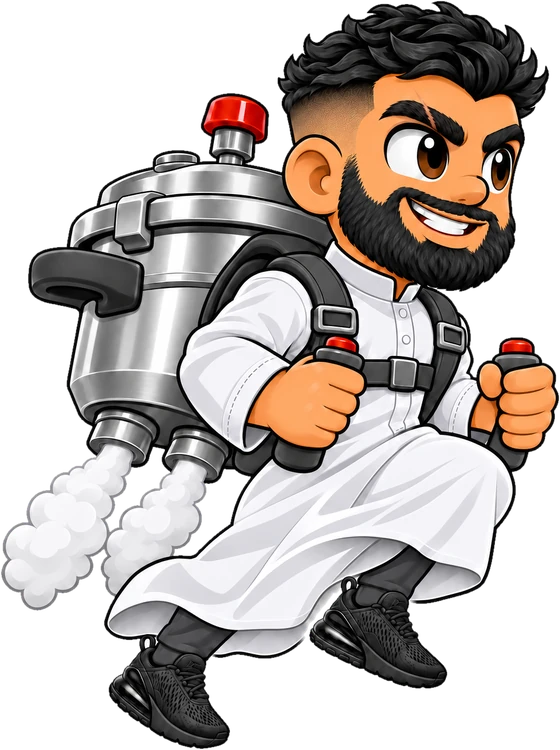
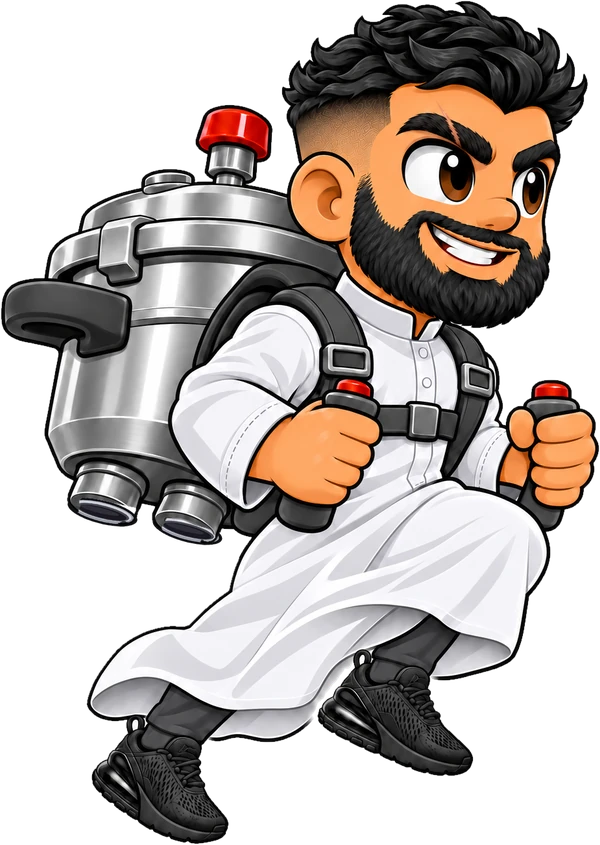
Jummah Dash demo: home art without painted steam + live smoky steam from the nozzles (behind the thobe), darker home background, menu clear of the Dynamic Island
Claude-Session: https://claude.ai/code/session_01YJ1z4udzgwtjsqdwzKAzGp

diff --git a/jummahdash/demo/game.html b/jummahdash/demo/game.html
@@ -17,16 +17,16 @@ html,body{margin:0;height:100%;background:#0c0820;overflow:hidden;overscroll-beh
 #stage{position:fixed;left:0;top:0;overflow:hidden;transform-origin:0 0}
 canvas{position:absolute;inset:0;width:100%;height:100%;display:block}
 #ui{position:absolute;inset:0;pointer-events:none;font-family:PS,monospace;color:#fff}
-.hud{position:absolute;top:12px;left:16px;font-size:20px;text-shadow:3px 3px 0 #160c28;display:none}
+.hud{position:absolute;top:12px;left:calc(var(--sl,0px) + 16px);font-size:20px;text-shadow:3px 3px 0 #160c28;display:none}
 .hud .c{font-size:15px;margin-top:9px;color:#ffd75a;display:flex;align-items:center;gap:7px}
 .coin{display:inline-flex;align-items:center;justify-content:center;width:18px;height:18px;border-radius:50%;background:radial-gradient(circle at 40% 35%,#fff3b0,#e9b52b 55%,#a8761a);box-shadow:0 0 0 2px #6b4a12;color:#6b4a12;font:700 11px Silk}
-.top-r{position:absolute;top:10px;right:12px;display:flex;gap:8px;pointer-events:auto}
+.top-r{position:absolute;top:10px;right:calc(var(--sr,0px) + 12px);display:flex;gap:8px;pointer-events:auto}
 .btn{font-family:PS,monospace;border:0;border-radius:10px;padding:8px 10px;font-size:12px;background:rgba(18,12,38,.72);color:#fff;box-shadow:0 0 0 2px rgba(255,255,255,.25) inset;cursor:pointer}
 .hide{display:none!important}
 
 /* ---------- home screen ---------- */
-#home{position:absolute;inset:0;pointer-events:auto;display:grid;grid-template-columns:minmax(150px,26%) 1fr;background:linear-gradient(90deg,rgba(10,6,28,.88) 0,rgba(10,6,28,.55) 30%,rgba(10,6,28,.1) 60%,rgba(10,6,28,.35))}
-.side{display:flex;flex-direction:column;gap:7px;padding:12px 10px 12px 22px;background:repeating-linear-gradient(135deg,#ffd21f 0 12px,#1a1024 12px 24px) left/8px 100% no-repeat}
+#home{position:absolute;inset:0;pointer-events:auto;display:grid;grid-template-columns:calc(var(--sl,0px) + minmax(150px,24vw)) 1fr;grid-template-columns:calc(var(--sl,0px) + 26%) 1fr;background:linear-gradient(90deg,rgba(8,5,24,.9) 0,rgba(8,5,24,.72) 32%,rgba(8,5,24,.5) 62%,rgba(8,5,24,.62))}
+.side{display:flex;flex-direction:column;gap:7px;padding:12px 10px 12px calc(var(--sl,0px) + 22px);background:repeating-linear-gradient(135deg,#ffd21f 0 12px,#1a1024 12px 24px) left/8px 100% no-repeat}
 .side .tile{font-family:PS,monospace;font-size:clamp(8px,1.25vw,12px);text-align:left;border:0;border-radius:9px;padding:9px 10px;background:linear-gradient(#3a3168,#241c48);color:#fff;box-shadow:0 3px 0 #120c26,0 0 0 2px #5a4fa0 inset;display:flex;align-items:center;justify-content:space-between;gap:8px;cursor:pointer;line-height:1.5}
 .side .tile small{font-family:Silk;font-size:10px;color:#bdb4ff}
 .side .tile.gold{background:linear-gradient(#ffcf3a,#e09a12);color:#2a1500;box-shadow:0 3px 0 #8a5300,0 0 0 2px #fff0a8 inset}
@@ -40,12 +40,11 @@ canvas{position:absolute;inset:0;width:100%;height:100%;display:block}
 .badge{font-family:Silk;font-weight:700;font-size:12px;letter-spacing:2px;color:#ffd75a;background:#151226;border:2px solid #ffd75a;border-radius:20px;padding:4px 12px}
 .tag{margin-left:2%;font-size:14px;color:#fff;text-shadow:3px 3px 0 #160c28}
 .tag b{color:#ffd75a}
-.heroWrap{position:absolute;right:2%;bottom:3%;height:84%;aspect-ratio:560/750;animation:bob 2.2s ease-in-out infinite}
-.hero{width:100%;height:100%;filter:drop-shadow(10px 14px 10px rgba(0,0,0,.45))}
+.heroWrap{position:absolute;right:3%;bottom:4%;height:84%;aspect-ratio:925/1302;animation:bob 2.2s ease-in-out infinite}
+.hero{position:relative;z-index:1;width:100%;height:100%;filter:drop-shadow(10px 14px 10px rgba(0,0,0,.45))}
+#steamCv{position:absolute;z-index:0;left:-80%;top:0;width:180%;height:140%;pointer-events:none}
 @keyframes bob{50%{transform:translateY(-4%) rotate(-1.5deg)}}
-.puff{position:absolute;border-radius:50%;background:#fff;pointer-events:none;animation:puff 1.1s linear forwards}
-@keyframes puff{from{opacity:.9}to{transform:translate(-50px,80px) scale(2.8);opacity:0}}
-.stats{position:absolute;top:10px;right:64px;display:flex;gap:8px;font-size:clamp(9px,1.3vw,13px)}
+.stats{position:absolute;top:10px;right:calc(var(--sr,0px) + 64px);display:flex;gap:8px;font-size:clamp(9px,1.3vw,13px)}
 .stats div{background:rgba(18,12,38,.8);border-radius:9px;padding:7px 10px;box-shadow:0 0 0 2px rgba(255,255,255,.2) inset;display:flex;align-items:center;gap:7px}
 .stats .gold{color:#ffd75a}
 .play{position:absolute;left:5.5%;bottom:9%;font-size:clamp(11px,1.9vw,19px);color:#ffd75a;text-shadow:3px 3px 0 #160c28;animation:pulse 1s infinite}
@@ -94,7 +93,7 @@ canvas{position:absolute;inset:0;width:100%;height:100%;display:block}
       <div class="title"><div class="badge">AN SMR ORIGINAL</div>
       <img class="logo" src="art/logo.webp" alt="Jummah Dash">
       <div class="tag">LATE FOR <b>JUMMAH</b>. AGAIN.</div></div>
-      <div class="heroWrap" id="heroWrap"><img class="hero" src="art/hero_hd.webp" alt=""></div>
+      <div class="heroWrap" id="heroWrap"><canvas id="steamCv"></canvas><img class="hero" src="art/hero_hd.webp?v=1795283304" alt=""></div>
       <div class="stats"><div>BEST <span id="hBest">0m</span></div><div class="gold"><span class="coin">£</span><span id="hBank">£0</span></div></div>
       <div class="mine">Heading to <b id="mineName">your masjid</b></div>
       <div class="play">TOUCH ANYWHERE TO PLAY</div>
@@ -130,8 +129,8 @@ canvas{position:absolute;inset:0;width:100%;height:100%;display:block}
   <div id="toast" class="hide"></div>
 </div>
 </div>
-<script src="landmarks.js?v=1795280476"></script>
-<script src="vehicles.js?v=1795280476"></script>
-<script src="game.js?v=1795280476"></script>
+<script src="landmarks.js?v=1795283304"></script>
+<script src="vehicles.js?v=1795283304"></script>
+<script src="game.js?v=1795283304"></script>
 </body>
 </html>

diff --git a/jummahdash/demo/game.js b/jummahdash/demo/game.js
@@ -24,6 +24,9 @@ function resize() {
   // always landscape: if the phone is upright, turn the whole stage 90° (the player just turns the phone)
   const st = $('stage'), port = innerHeight > innerWidth, sw = port ? innerHeight : innerWidth, sh2 = port ? innerWidth : innerHeight;
   st.style.width = sw + 'px'; st.style.height = sh2 + 'px'; st.style.transform = port ? `translateX(${innerWidth}px) rotate(90deg)` : 'none';
+  // keep the menu and HUD clear of the notch / Dynamic Island: on an upright phone the island ends up on the left of the turned stage
+  st.style.setProperty('--sl', port ? 'max(44px, env(safe-area-inset-top))' : 'max(0px, env(safe-area-inset-left))');
+  st.style.setProperty('--sr', port ? 'max(0px, env(safe-area-inset-bottom))' : 'max(0px, env(safe-area-inset-right))');
   cv.width = Math.round(sw * dpr); cv.height = Math.round(sh2 * dpr);
   S = cv.height / VH; W = cv.width / S;
   const k = Math.min(4, Math.max(1, Math.round(S * 10) / 10));
@@ -492,10 +495,39 @@ window.addEventListener('keydown', e => { if (e.code === 'Space' || e.code === '
 window.addEventListener('keyup', e => { if (e.code === 'Space' || e.code === 'ArrowUp') holding = false; });
 document.addEventListener('gesturestart', e => e.preventDefault());
 window.addEventListener('resize', resize); window.addEventListener('orientationchange', () => setTimeout(resize, 200));
-// steam puffs out of the cooker on the home-screen art
-setInterval(() => { if (state !== 'menu' || document.hidden) return; const w = $('heroWrap'); const r = w.getBoundingClientRect(); if (!r.width) return;
-  for (const [fx, fy] of [[.13, .8], [.27, .8]]) { const p = document.createElement('div'); p.className = 'puff'; const sz = 10 + Math.random() * 14;
-    p.style.cssText = `width:${sz}px;height:${sz}px;left:${w.offsetLeft + w.offsetWidth * fx - sz / 2}px;top:${w.offsetTop + w.offsetHeight * fy}px`; w.parentNode.appendChild(p); setTimeout(() => p.remove(), 1150); } }, 140);
+// home screen: smoky steam pouring out of the two cooker nozzles (drawn BEHIND the art, so it comes out of the holes and passes behind the thobe)
+(() => {
+  const sc = $('steamCv'), wrap = $('heroWrap'), o = sc.getContext('2d');
+  const NZ = [[.171, .606], [.312, .627]], AX = [-.24, .97];          // nozzle mouths (fraction of the art) + the way they point
+  const mk = (inner, outer) => { const c = document.createElement('canvas'); c.width = c.height = 64; const g = c.getContext('2d');
+    const r = g.createRadialGradient(32, 32, 0, 32, 32, 32); r.addColorStop(0, inner); r.addColorStop(.62, inner.replace(/[\d.]+\)$/, '0.9)')); r.addColorStop(.82, inner.replace(/[\d.]+\)$/, '0.35)')); r.addColorStop(1, outer); g.fillStyle = r; g.fillRect(0, 0, 64, 64); return c; };
+  const SHADE = mk('rgba(150,152,170,1)', 'rgba(150,152,170,0)'), LIGHT = mk('rgba(255,255,255,1)', 'rgba(255,255,255,0)'), CORE = mk('rgba(244,244,250,1)', 'rgba(240,240,248,0)');
+  let P = [], lastT = performance.now(), acc = 0;
+  function step(now) {
+    requestAnimationFrame(step);
+    if (state !== 'menu' || document.hidden) { P.length = 0; return; }
+    const dt = Math.min(.05, (now - lastT) / 1000); lastT = now;
+    const ww = wrap.clientWidth, wh = wrap.clientHeight; if (!ww) return;
+    const pr = Math.min(2, window.devicePixelRatio || 1), cw = Math.round(ww * 1.8 * pr), ch = Math.round(wh * 1.4 * pr);
+    if (sc.width !== cw || sc.height !== ch) { sc.width = cw; sc.height = ch; }
+    const k = ww / 300;                                                   // sizes follow the size of the art
+    acc += dt * 110;
+    while (acc > 1) { acc--; for (const [fx, fy] of NZ) {
+      const x = (.8 * ww + fx * ww), y = fy * wh, sp = (110 + Math.random() * 70) * k;
+      P.push({ x: x - AX[0] * 6 * k + (Math.random() - .5) * 8 * k, y: y - AX[1] * 6 * k, vx: AX[0] * sp + (Math.random() - .5) * 18 * k, vy: AX[1] * sp, r: (2 + Math.random() * 2) * k, g: (9 + Math.random() * 11) * k, l: 0, L: .9 + Math.random() * .8, s: Math.random() * 6.3 });
+    } }
+    o.setTransform(pr, 0, 0, pr, 0, 0); o.clearRect(0, 0, cw, ch);
+    for (let i = P.length - 1; i >= 0; i--) { const p = P[i]; p.l += dt; if (p.l > p.L) { P.splice(i, 1); continue; }
+      const drag = Math.pow(.16, dt); p.vx = p.vx * drag - 55 * k * dt; p.vy = p.vy * drag + 6 * k * dt;           // slows, gets blown back as he flies
+      p.vx += Math.sin(p.l * 5 + p.s) * 22 * k * dt; p.x += p.vx * dt; p.y += p.vy * dt; p.r += p.g * dt; }
+    // shade layer first (gives the puffs body), then highlights, then bright cores near the nozzle
+    for (const [img, dx, dy, aMul, rMul] of [[SHADE, .2, .24, .85, 1.08], [LIGHT, -.14, -.16, .95, .86], [CORE, -.05, -.06, .9, .5]]) {
+      for (const p of P) { const t = p.l / p.L, a = (t < .08 ? t / .08 : 1 - (t - .08) / .92) * aMul * (img === CORE ? Math.max(0, 1 - t * 2.2) : 1); if (a <= .01) continue;
+        const r = p.r * rMul; o.globalAlpha = a; o.drawImage(img, p.x + dx * r - r, p.y + dy * r - r, r * 2, r * 2); } }
+    o.globalAlpha = 1;
+  }
+  requestAnimationFrame(step);
+})();
 
 resize(); seedStars(); reset(); refreshHome(); if (myMosque) setTimeout(refreshHome, 300);
 let last = performance.now();
